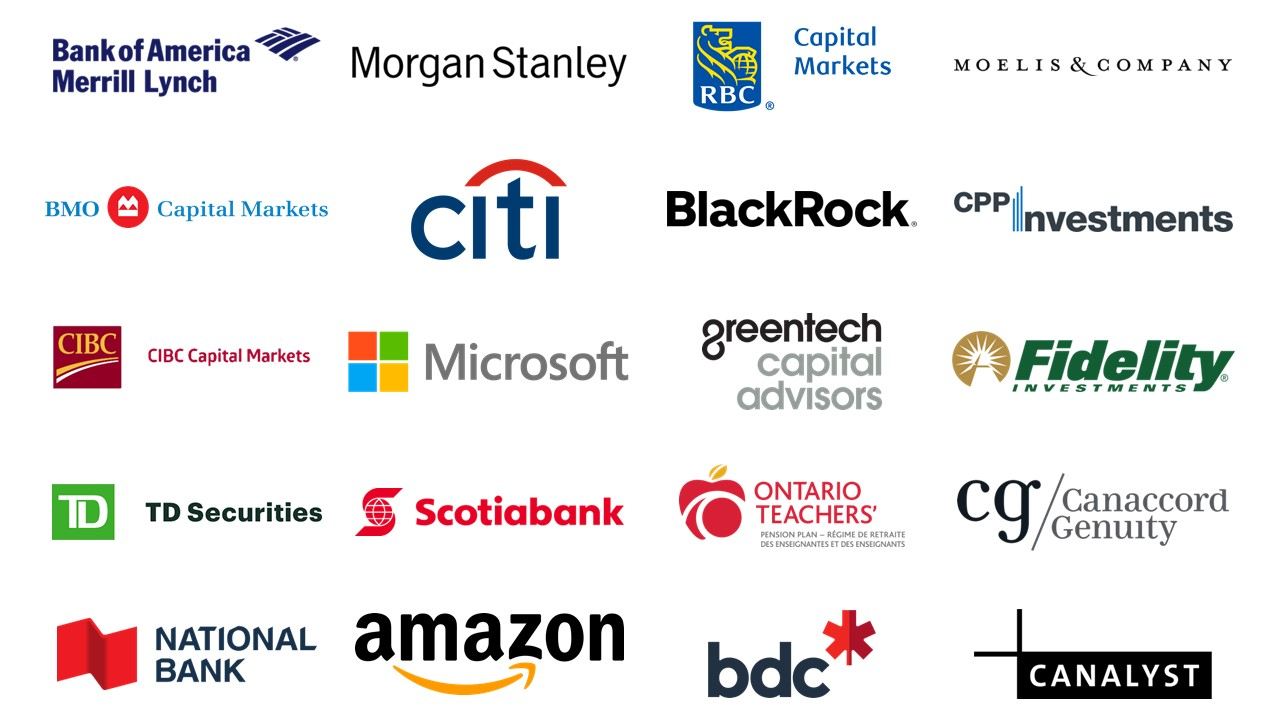
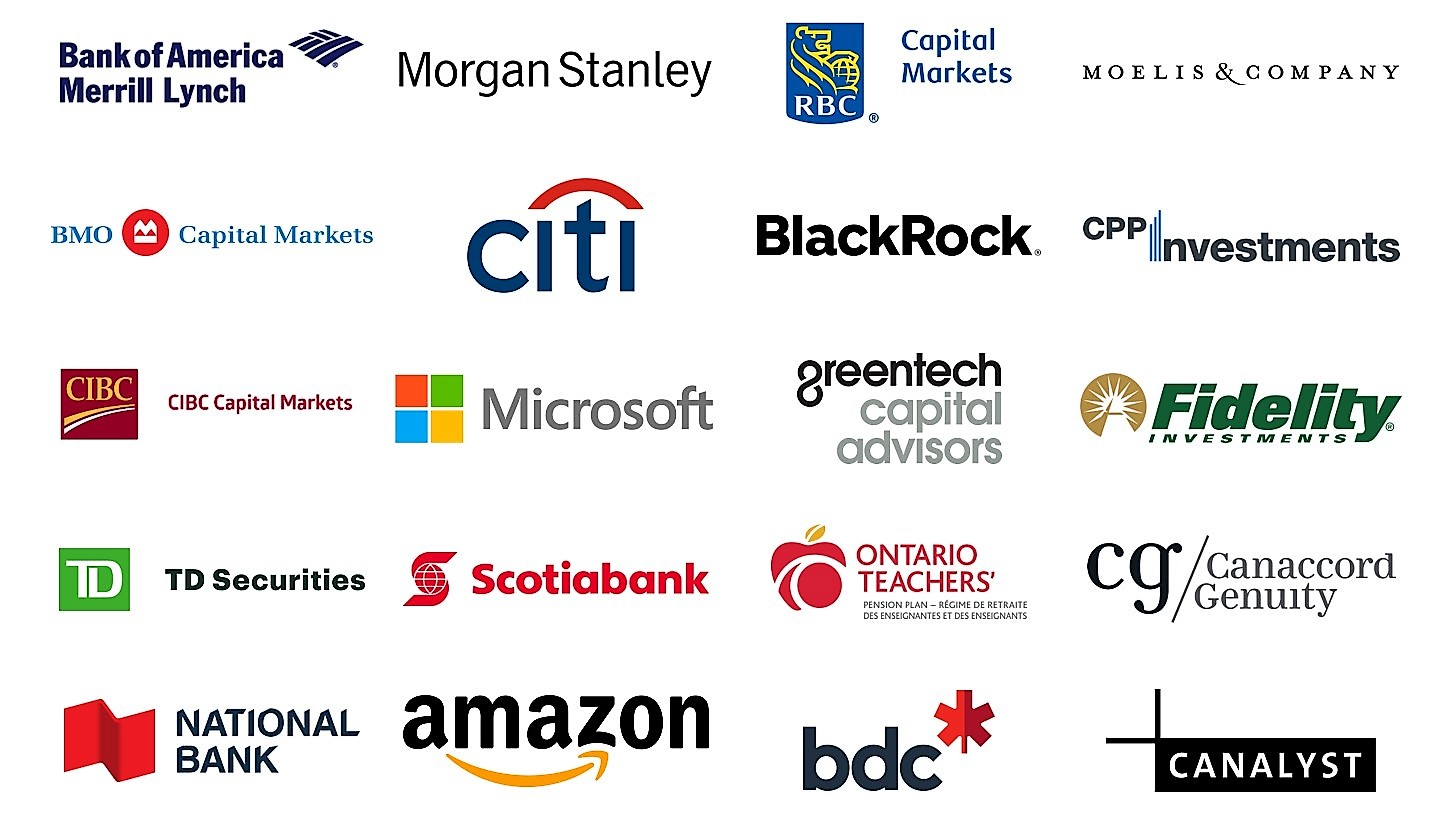
update placement

diff --git a/src/components/CompanyPlacement/CompanyPlacement.js b/src/components/CompanyPlacement/CompanyPlacement.js
@@ -7,7 +7,7 @@ import styles from "./CompanyPlacement.module.css"
 function CompanyPlacement(){
     const data = useStaticQuery(graphql`
     query placementsQuery {
-        one: file(absolutePath: {regex: "/Slide1.PNG/"}) {
+        one: file(absolutePath: {regex: "/placementsOne.jpg/"}) {
             childImageSharp {
                 fluid(maxWidth: 2000) {
                     ...GatsbyImageSharpFluid
@@ -15,7 +15,7 @@ function CompanyPlacement(){
             }
         }
 
-        two: file(absolutePath: {regex: "/Slide2.PNG/"}) {
+        two: file(absolutePath: {regex: "/placementsTwo.jpg/"}) {
             childImageSharp {
                 fluid(maxWidth: 2000) {
                     ...GatsbyImageSharpFluid

diff --git a/src/templates/teamMember.js b/src/templates/teamMember.js
@@ -7,7 +7,6 @@ import Img from "gatsby-image"
 export default function teamMember({ data }) {
   const post = data.markdownRemark
   const research = post.frontmatter.research
-  console.log(data)
   return (
     <Layout>
       <div className={styles.container}>

diff --git a/src/components/CompanyPlacement/CompanyPlacement.module.css b/src/components/CompanyPlacement/CompanyPlacement.module.css
@@ -13,7 +13,7 @@
 }
 
 .logoImage{
-    width: 75%;
+    width: 55%;
     margin: 0 auto;
 }
 
